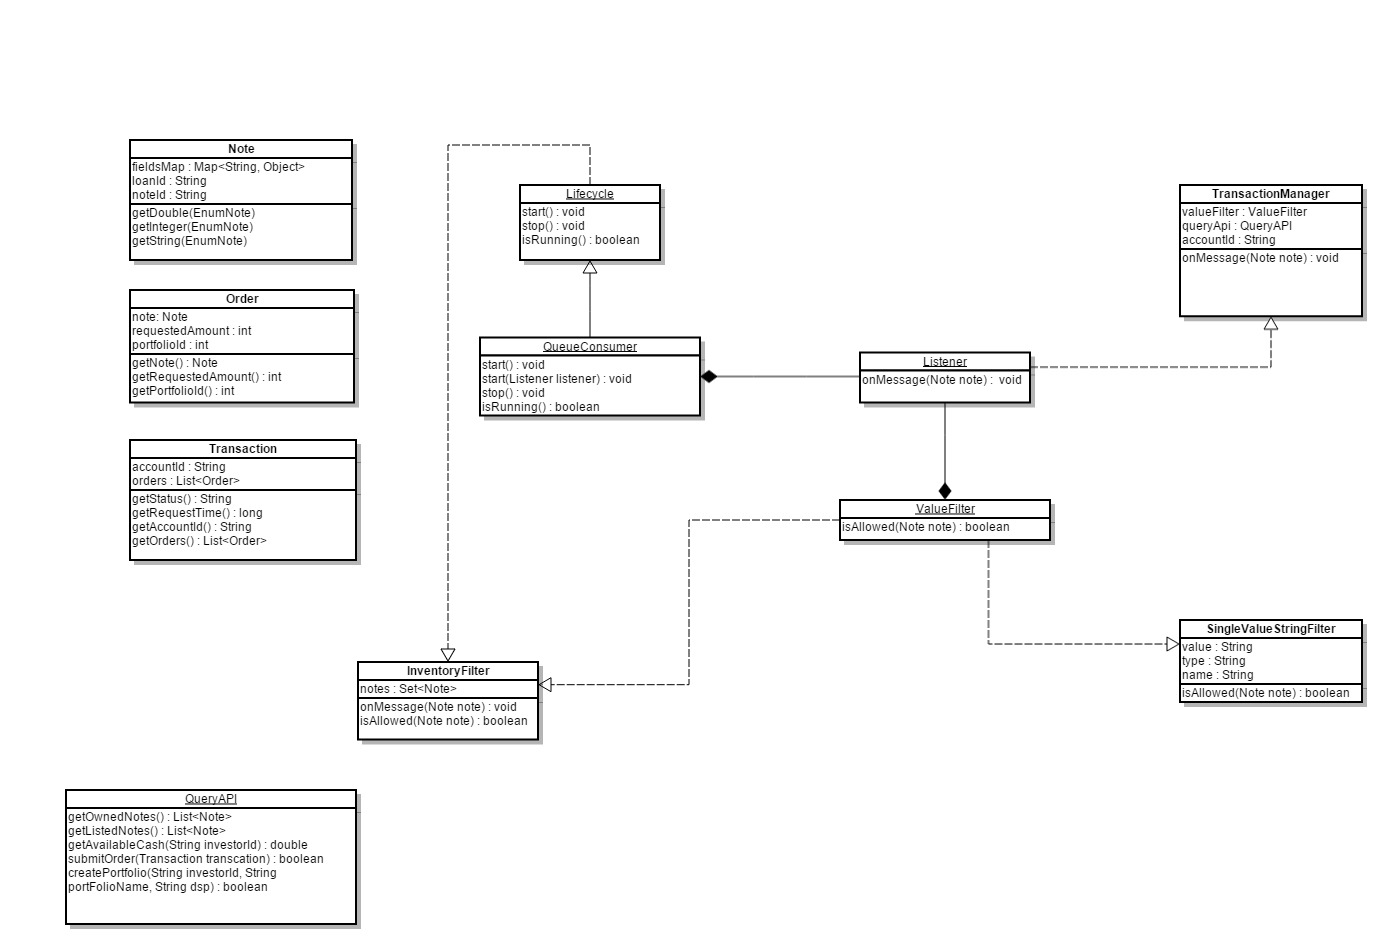
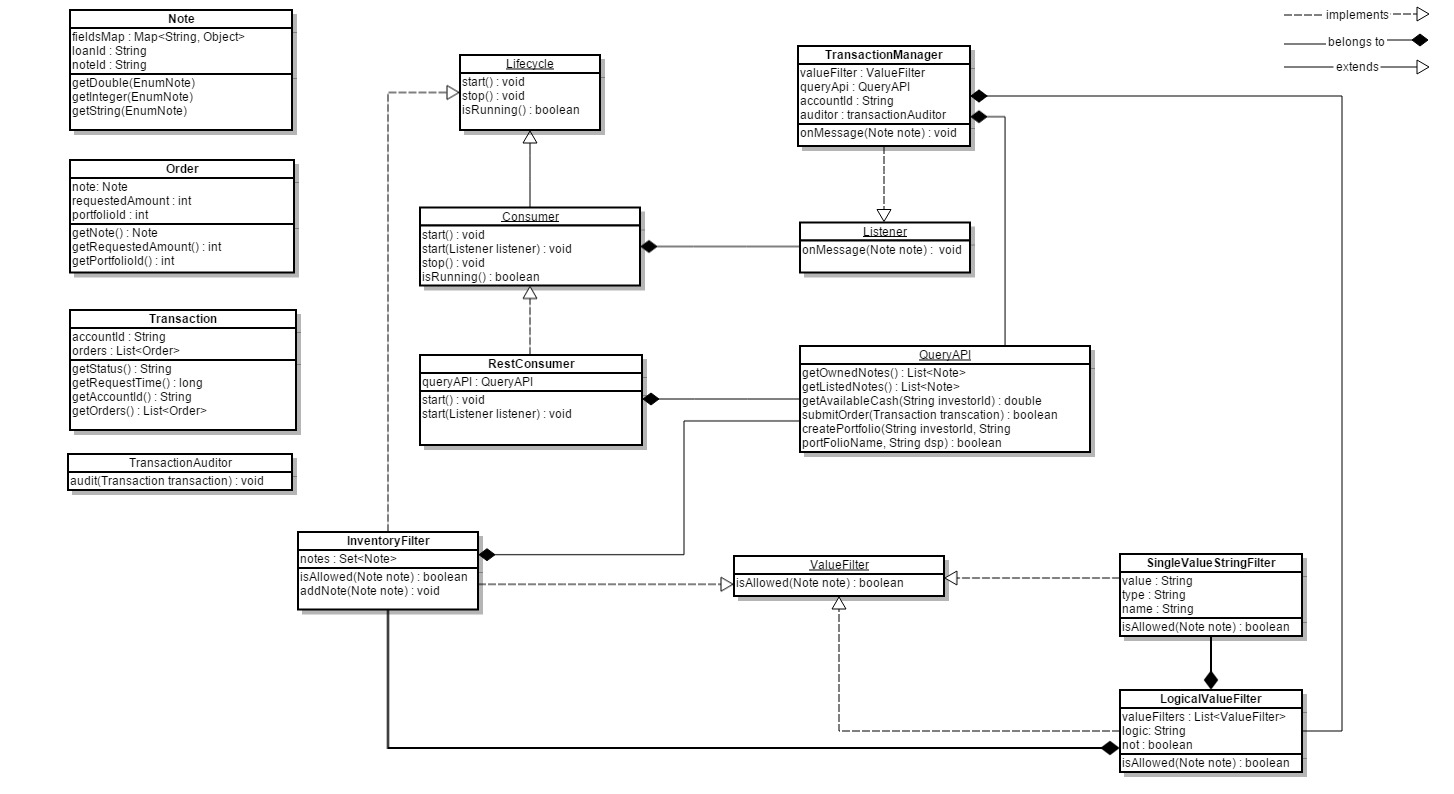
new added img

diff --git a/CommonData/src/main/java/org/p2p/lending/club/message/impl/NotesListener.java b/CommonData/src/main/java/org/p2p/lending/club/message/impl/NotesListener.java
@@ -1,14 +1,14 @@
 package org.p2p.lending.club.message.impl;
 
 import org.p2p.lending.club.api.data.impl.Note;
-import org.p2p.lending.club.message.QueueConsumer;
+import org.p2p.lending.club.message.Consumer;
 
 import java.util.concurrent.ArrayBlockingQueue;
 
 /**
  * Created by tczhaodachuan on 7/21/2015.
  */
-public class NotesListener implements QueueConsumer.Listener<Note> {
+public class NotesListener implements Consumer.Listener<Note> {
     private final int capacity;
     private ArrayBlockingQueue<Note> blockingQueue;
 

diff --git a/CommonData/src/main/java/org/p2p/lending/club/message/Consumer.java b/CommonData/src/main/java/org/p2p/lending/club/message/Consumer.java
@@ -6,7 +6,7 @@ import org.springframework.context.Lifecycle;
 /**
  * Created by tczhaodachuan on 7/21/2015.
  */
-public interface QueueConsumer extends Lifecycle{
+public interface Consumer extends Lifecycle{
     void start(Listener listener);
 
     public interface Listener<T>
